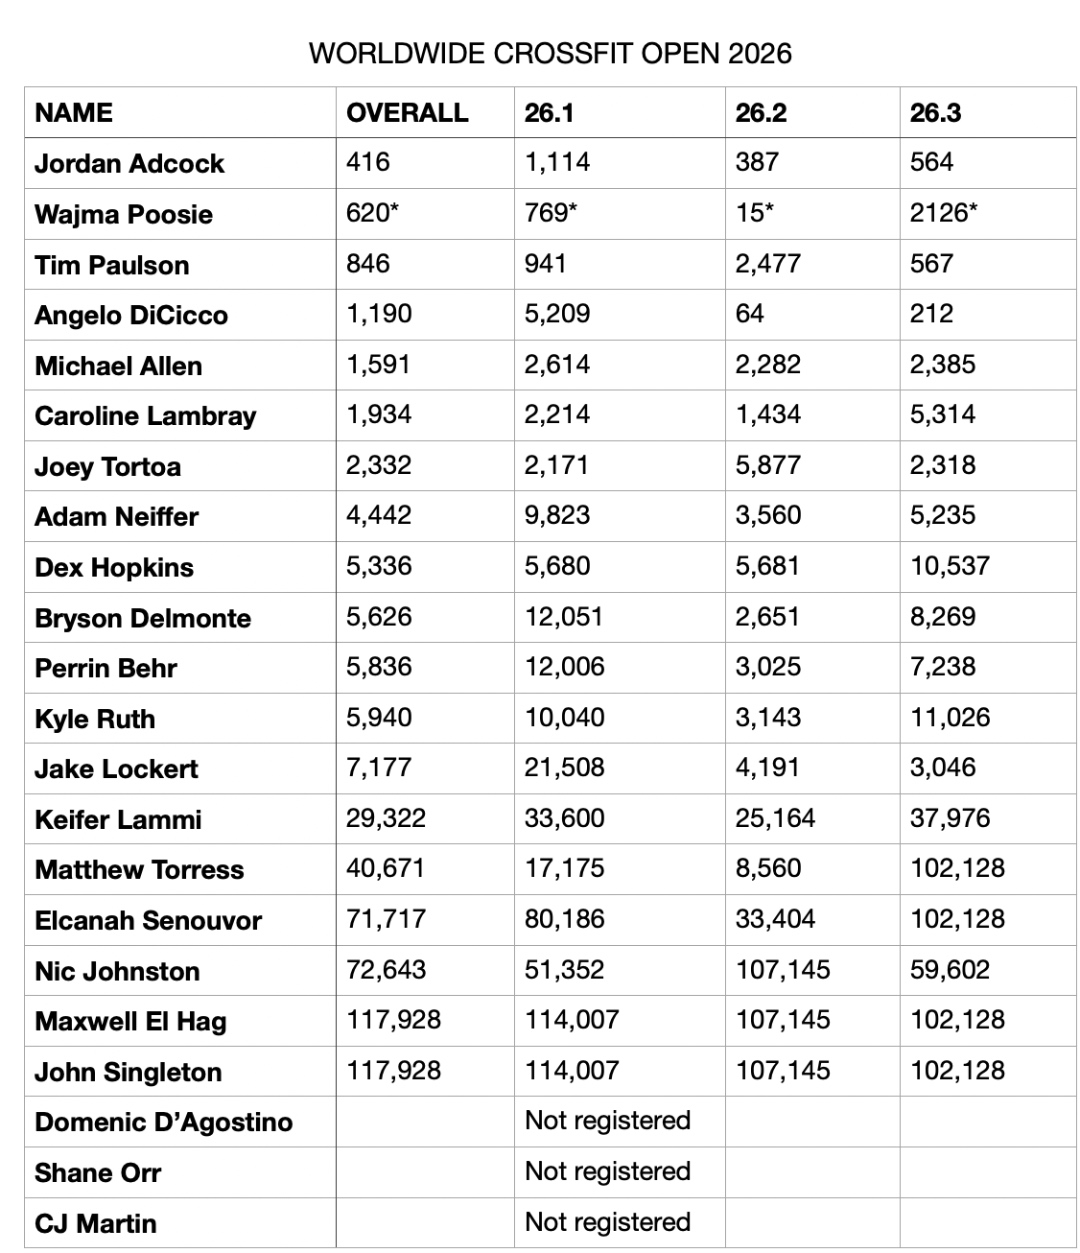
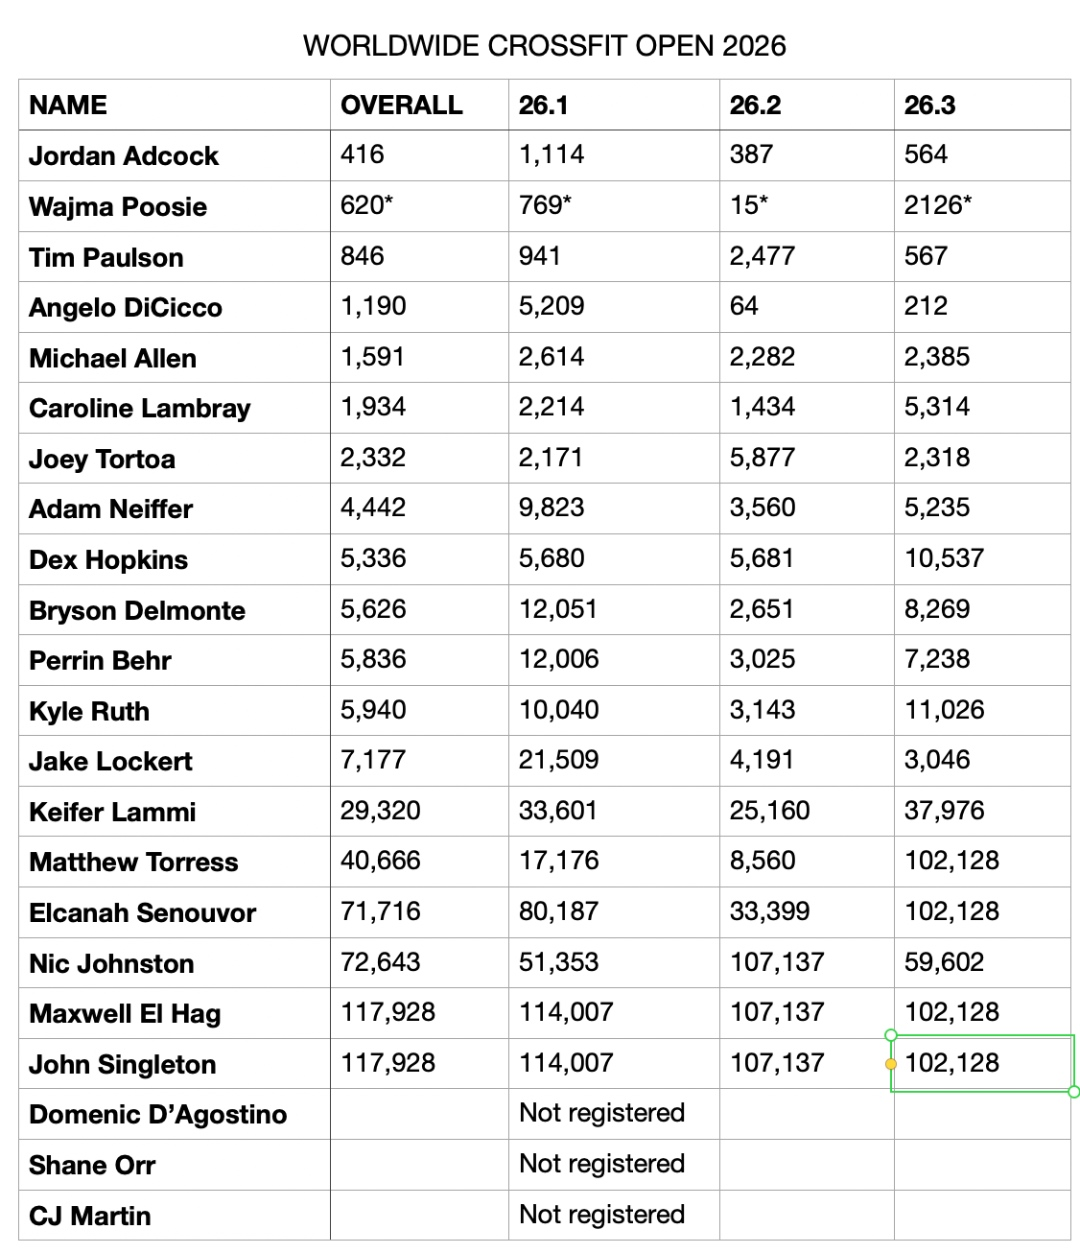
Update All Coaches leaderboard image and timestamp link title

Changed region(s): [[0.0, 0.0, 1.0, 0.996]]

diff --git a/index.html b/index.html
@@ -91,7 +91,7 @@
       <p class="card__excerpt">On the men&rsquo;s side, Tim Paulson officially takes the top spot among registered coaches with an overall rank of 846. A 7x CrossFit Games athlete and PRVN coach, Paulson&rsquo;s well-rounded performance across all three workouts earned him the title. However, it&rsquo;s worth noting that Wajma Poosie&mdash;who didn&rsquo;t officially register&mdash;would have ranked significantly higher at ~620th overall, making him arguably the fitter coach on paper. That&rsquo;s the defining trait of elite coaching today: building athletes (and themselves) who can survive every test.</p>
       <div style="margin-top:var(--space-4);">
         <a href="./assets/img-all-coaches-leaderboard.jpg" target="_blank" style="display:block;text-decoration:none;">
-          <p style="font-weight:700;font-size:var(--text-base);color:var(--color-primary);margin-bottom:var(--space-2);">All Coaches &rarr;</p>
+          <p style="font-weight:700;font-size:var(--text-base);color:var(--color-primary);margin-bottom:var(--space-2);">All Coaches as of 12pm Central March 19th, 2026 &rarr;</p>
           <img src="./assets/img-all-coaches-leaderboard.jpg" alt="Worldwide CrossFit Open 2026 — All Coaches Leaderboard" style="width:100%;border-radius:8px;border:1px solid rgba(128,128,128,0.2);">
         </a>
       </div>
